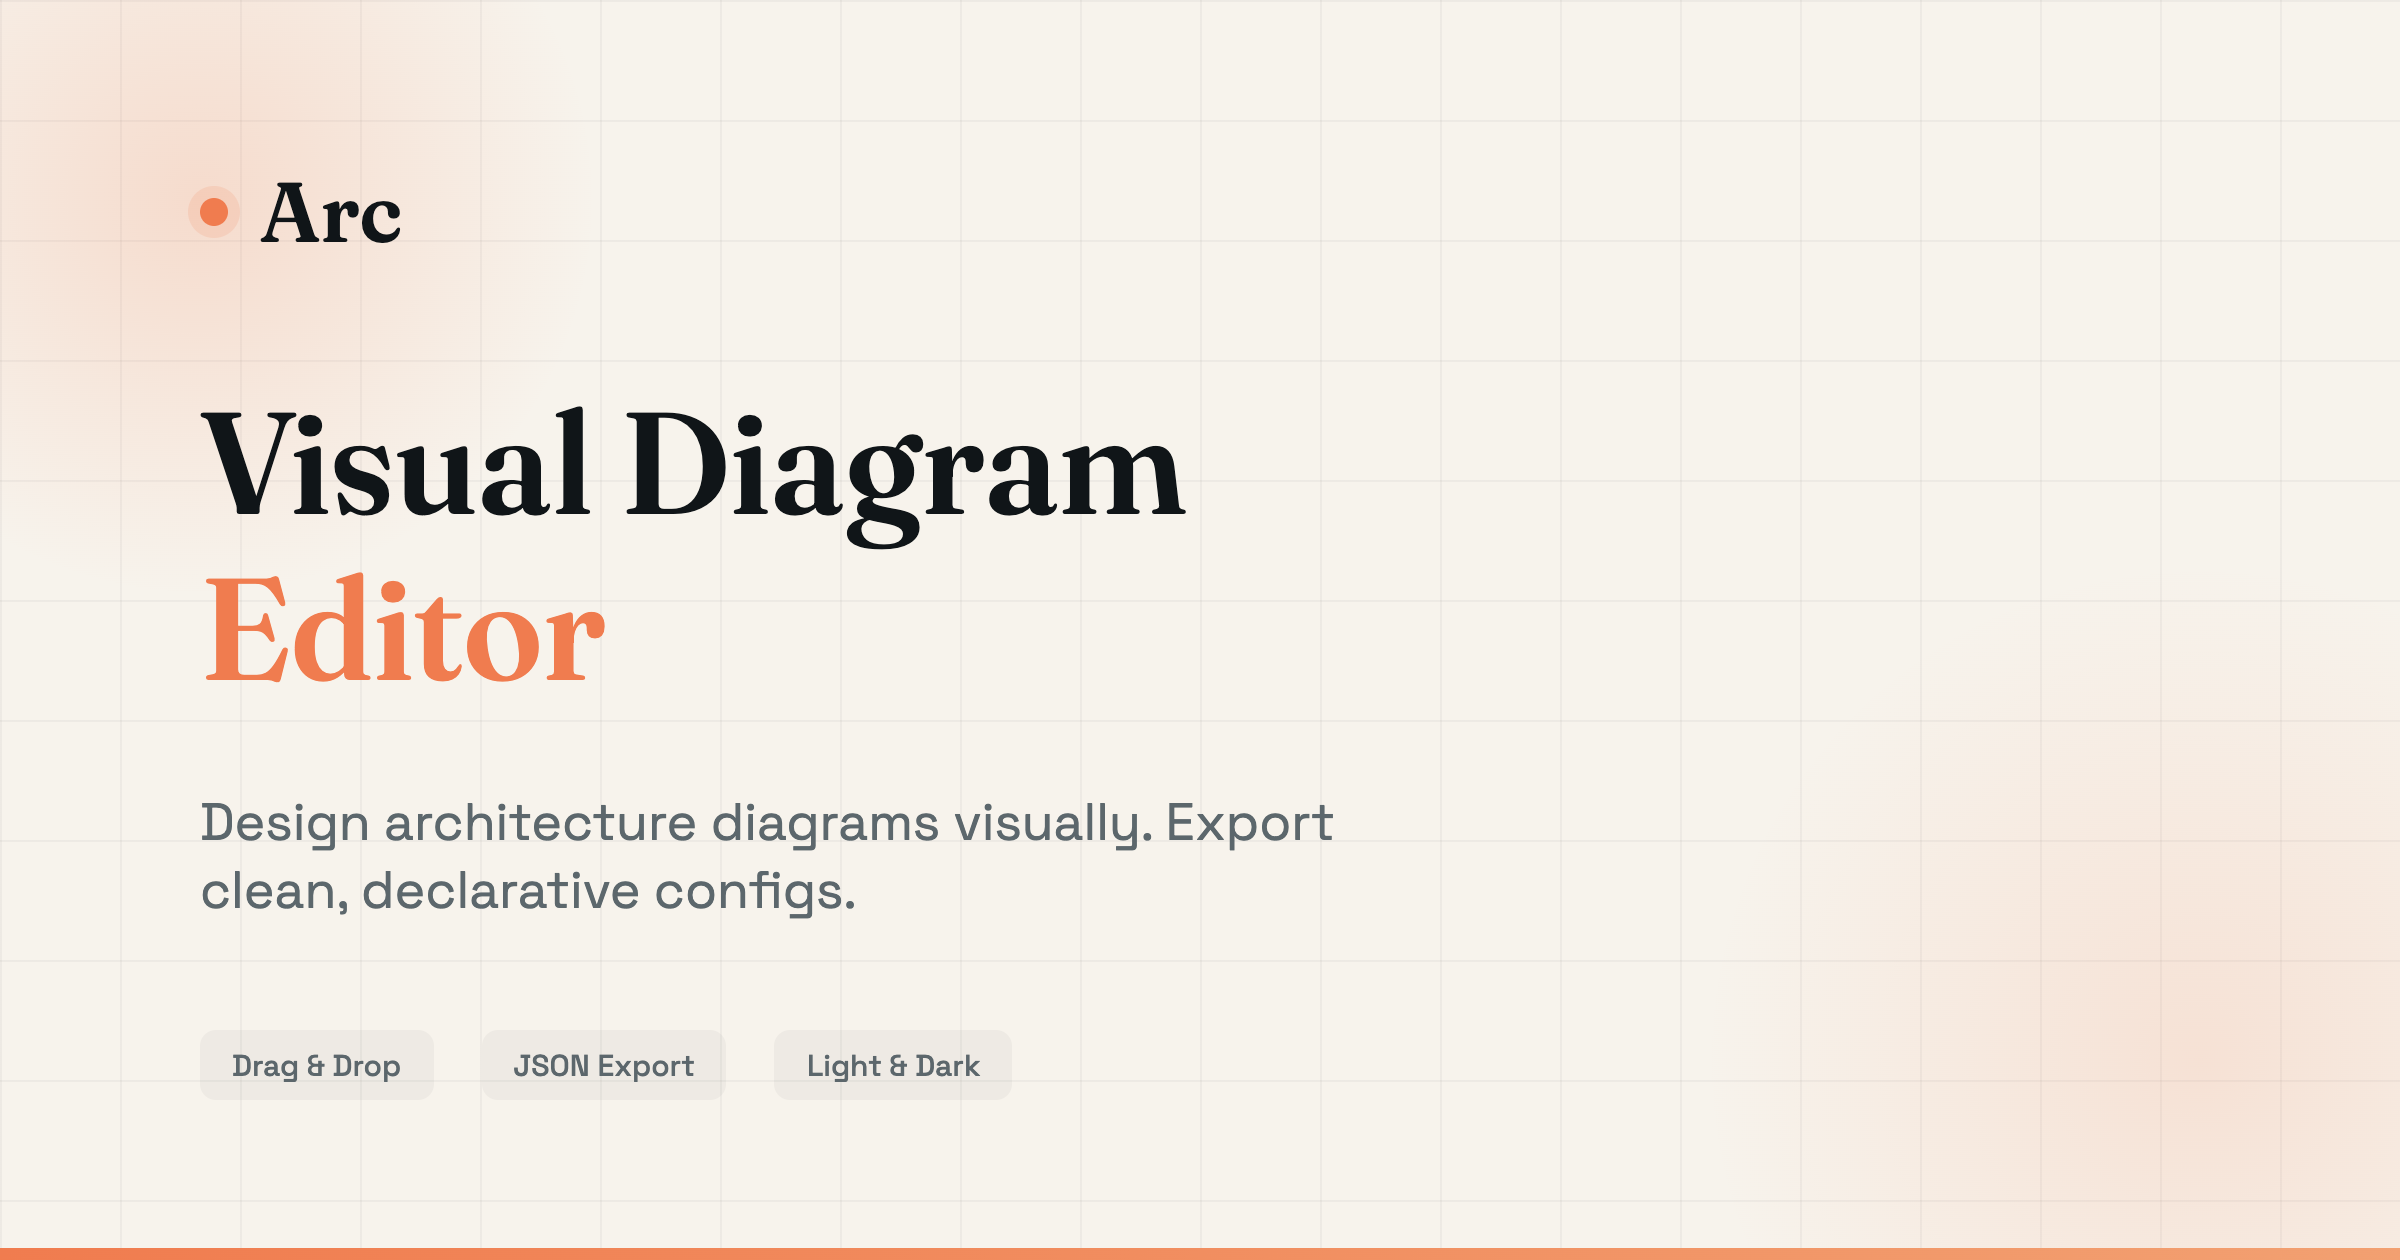
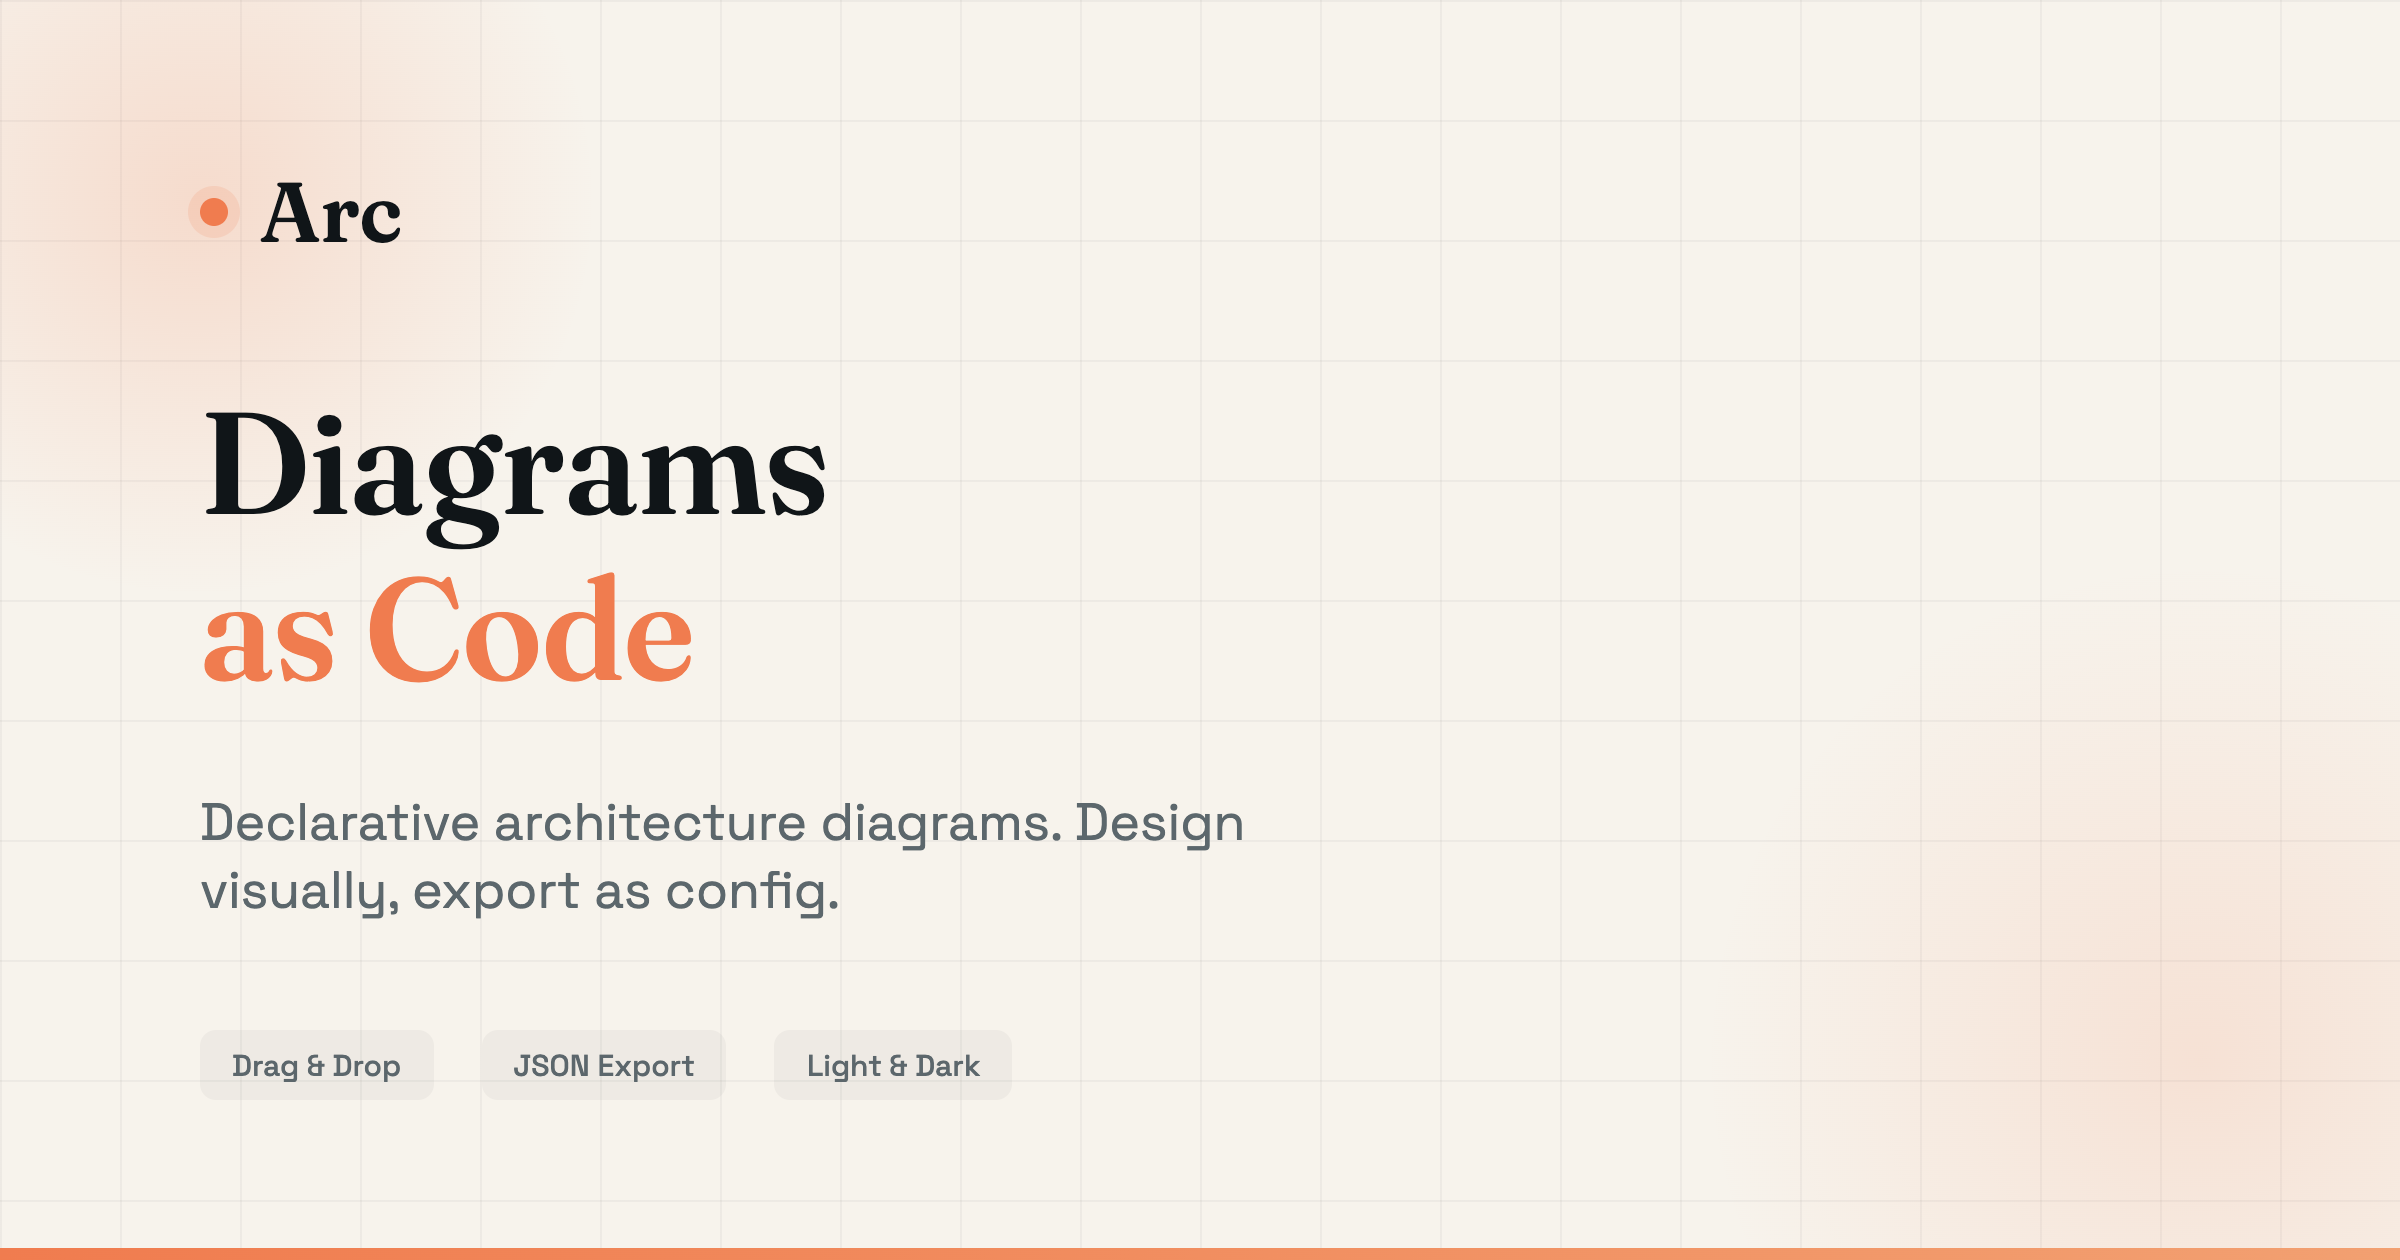
✨ Update OG images with 'Diagrams as Code' messaging

Changed region(s): [[0.0625, 0.3095, 0.5, 0.5571], [0.0938, 0.619, 0.5625, 0.7429], [0.2188, 0.4643, 0.3125, 0.5571]]

diff --git a/scripts/generate-og.js b/scripts/generate-og.js
@@ -161,11 +161,11 @@ const mainOGHtml = `
     </div>
 
     <div class="headline">
-      <span class="headline-line">Visual Diagram</span>
-      <span class="headline-line headline-accent">Editor</span>
+      <span class="headline-line">Diagrams</span>
+      <span class="headline-line headline-accent">as Code</span>
     </div>
 
-    <div class="tagline">Design architecture diagrams visually. Export clean, declarative configs.</div>
+    <div class="tagline">Declarative architecture diagrams. Design visually, export as config.</div>
 
     <div class="features">
       <div class="feature">Drag & Drop</div>
@@ -331,7 +331,7 @@ const docsOGHtml = `
     </div>
 
     <div class="headline">Arc Documentation</div>
-    <div class="subtitle">Everything you need to create beautiful architecture diagrams</div>
+    <div class="subtitle">Everything you need to create declarative architecture diagrams</div>
 
     <div class="features">
       <div class="feature">
@@ -661,11 +661,11 @@ const landingOGHtml = `
     </div>
 
     <div class="tagline">
-      Design once, <span class="tagline-accent">export everywhere</span>
+      Diagrams <span class="tagline-accent">as Code</span>
     </div>
 
     <div class="subtitle">
-      Visual architecture diagrams with clean, declarative configs
+      Declarative architecture diagrams you can design, version, and embed
     </div>
   </div>
 
